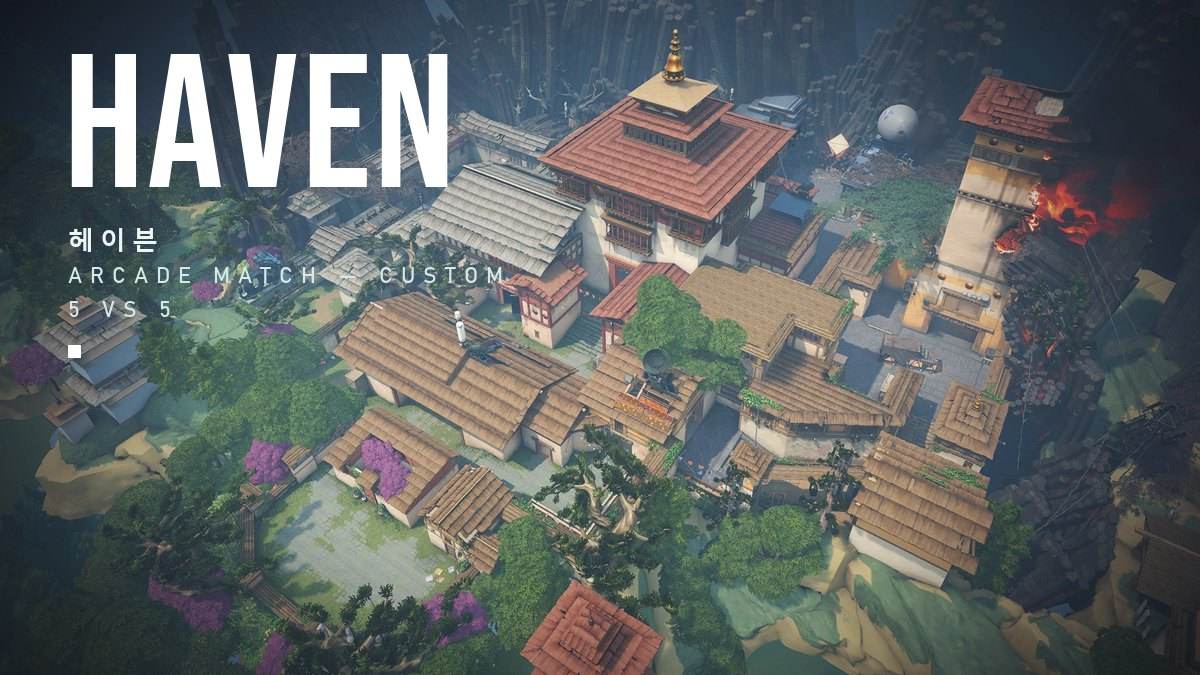
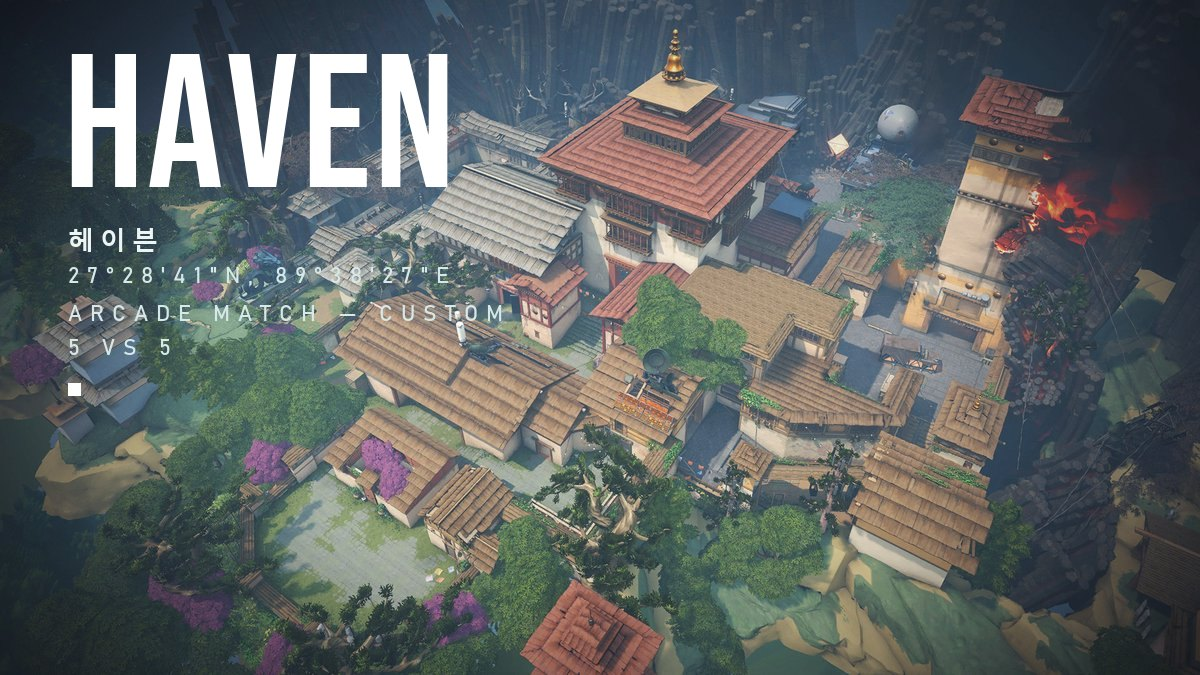
발로란트 맵 결과 이미지: 로딩 화면처럼 맵별 좌표 줄 추가(나무위키 값, 글자가 섞인 초 단위는 임의 숫자)

Changed region(s): [[0.0308, 0.3733, 0.4317, 0.5289], [0.0308, 0.56, 0.0925, 0.5911]]

diff --git a/scripts/맵결과이미지.py b/scripts/맵결과이미지.py
@@ -250,6 +250,24 @@ def overwatch(im, name, mode='ARCADE 내전', flag=None):
     return im
 
 
+# 발로란트 로딩 화면 좌표(맵의 실제 위치). 도·분은 나무위키 값, 인게임에서 글자가 섞여 읽히지 않는 초 단위는 임의 숫자로 채웠다(스플릿·펄·로터스·어비스는 위키의 완전한 값).
+COORDS = {
+    'bind': '''34°02'11"N, 6°51'27"W''',
+    'haven': '''27°28'41"N, 89°38'27"E''',
+    'split': '''35°41'23"N, 139°41'32"E''',
+    'ascent': '''45°26'18"N, 12°20'09"E''',
+    'icebox': '''76°44'32"N, 149°30'06"E''',
+    'breeze': '''26°11'47"N, 71°10'38"W''',
+    'fracture': '''35°48'52"N, 106°08'14"W''',
+    'pearl': '''38°42'43"N, 9°08'27"W''',
+    'lotus': '''14°07'03"N, 74°53'21"E''',
+    'sunset': '''34°02'51"N, 118°12'36"W''',
+    'abyss': '''70°50'09"N, 9°00'42"W''',
+    'corrode': '''48°38'12"N, 1°33'05"W''',
+    'summit': '''29°18'42"N, 110°25'19"E''',
+}
+
+
 def valorant(im, key, name):
     """왼쪽 위, 굵은 대문자 영문 이름 + 자간 넓은 작은 글줄 + 흰 점. 왼쪽 위에 부드러운 어두운 번짐."""
     shade = Image.new('RGBA', (W, H), (0, 0, 0, 0))
@@ -283,9 +301,14 @@ def valorant(im, key, name):
     sub = din_font(22, 'Regular')
     kofont = ko_font(FONT_KO_BOLD, 26)
     spaced(draw, (x0 + 4, base), name, kofont, (236, 244, 244, 235), 6)               # 한국어 이름(자간 넓게)
-    spaced(draw, (x0 + 4, base + 44), 'ARCADE MATCH — CUSTOM', sub, (214, 232, 232, 200), 8)  # 인게임의 "STANDARD — CUSTOM" 자리
-    spaced(draw, (x0 + 4, base + 44 + 34), '5 VS 5', sub, (214, 232, 232, 150), 8)                 # 인게임의 서버 이름(FRANKFURT) 자리, 윗줄보다 살짝 흐리게
-    draw.rectangle([x0 + 4, base + 124, x0 + 16, base + 136], fill=(255, 255, 255, 240))  # 작은 흰 점(인게임 화면의 표식)
+    y = base + 44
+    if key in COORDS:                                                                          # 로딩 화면의 좌표 줄(맵의 실제 위치)
+        spaced(draw, (x0 + 4, y), COORDS[key], sub, (214, 232, 232, 215), 8)
+        y += 38
+    spaced(draw, (x0 + 4, y), 'ARCADE MATCH — CUSTOM', sub, (214, 232, 232, 200), 8)  # 인게임의 "STANDARD — CUSTOM" 자리
+    spaced(draw, (x0 + 4, y + 34), '5 VS 5', sub, (214, 232, 232, 150), 8)                 # 인게임의 서버 이름(FRANKFURT) 자리, 윗줄보다 살짝 흐리게
+    y += 80
+    draw.rectangle([x0 + 4, y, x0 + 16, y + 12], fill=(255, 255, 255, 240))  # 작은 흰 점(인게임 화면의 표식)
     return im
 
 
